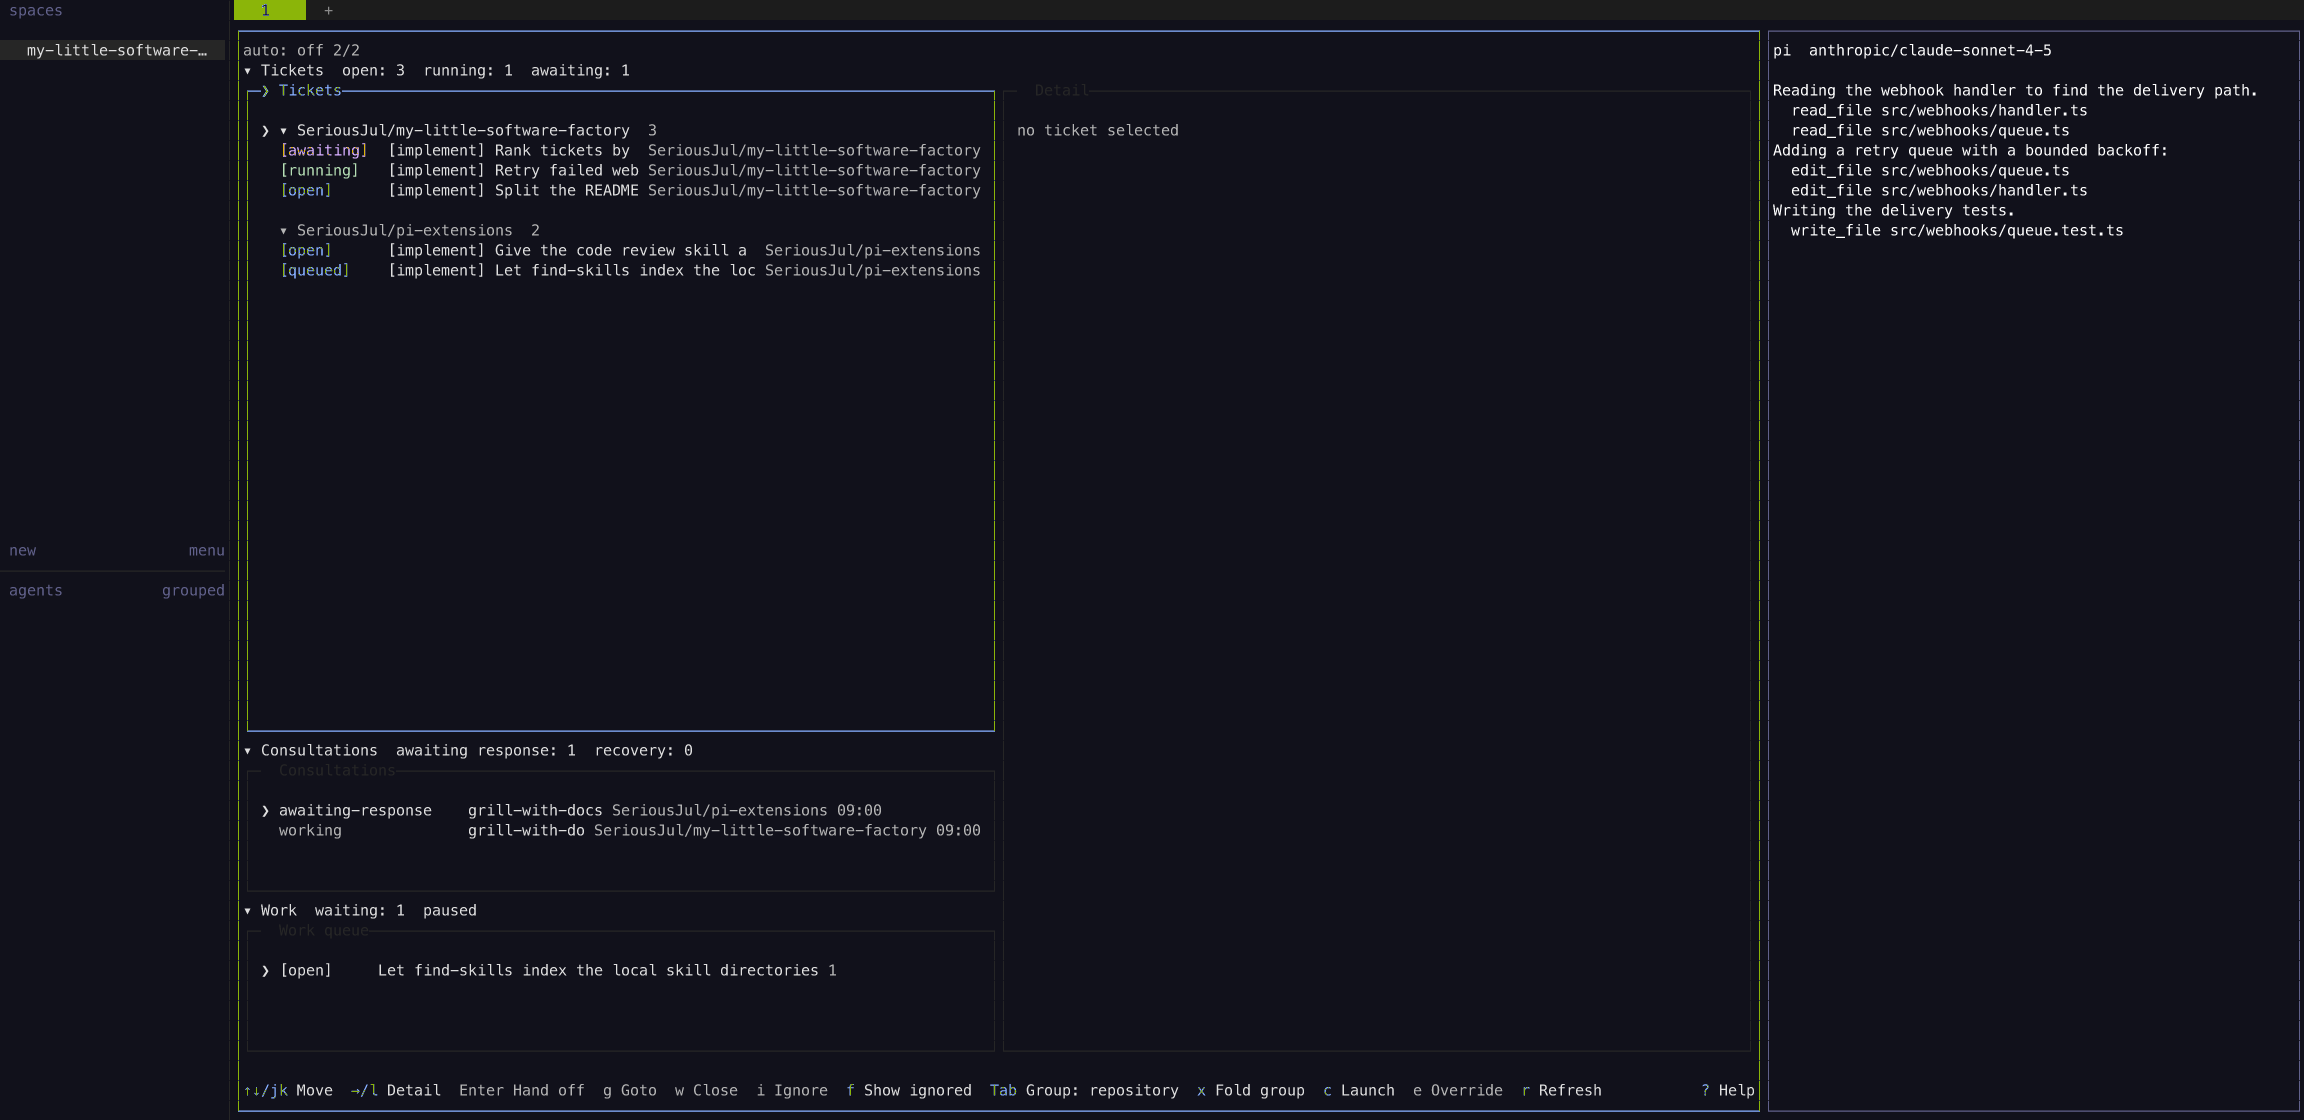
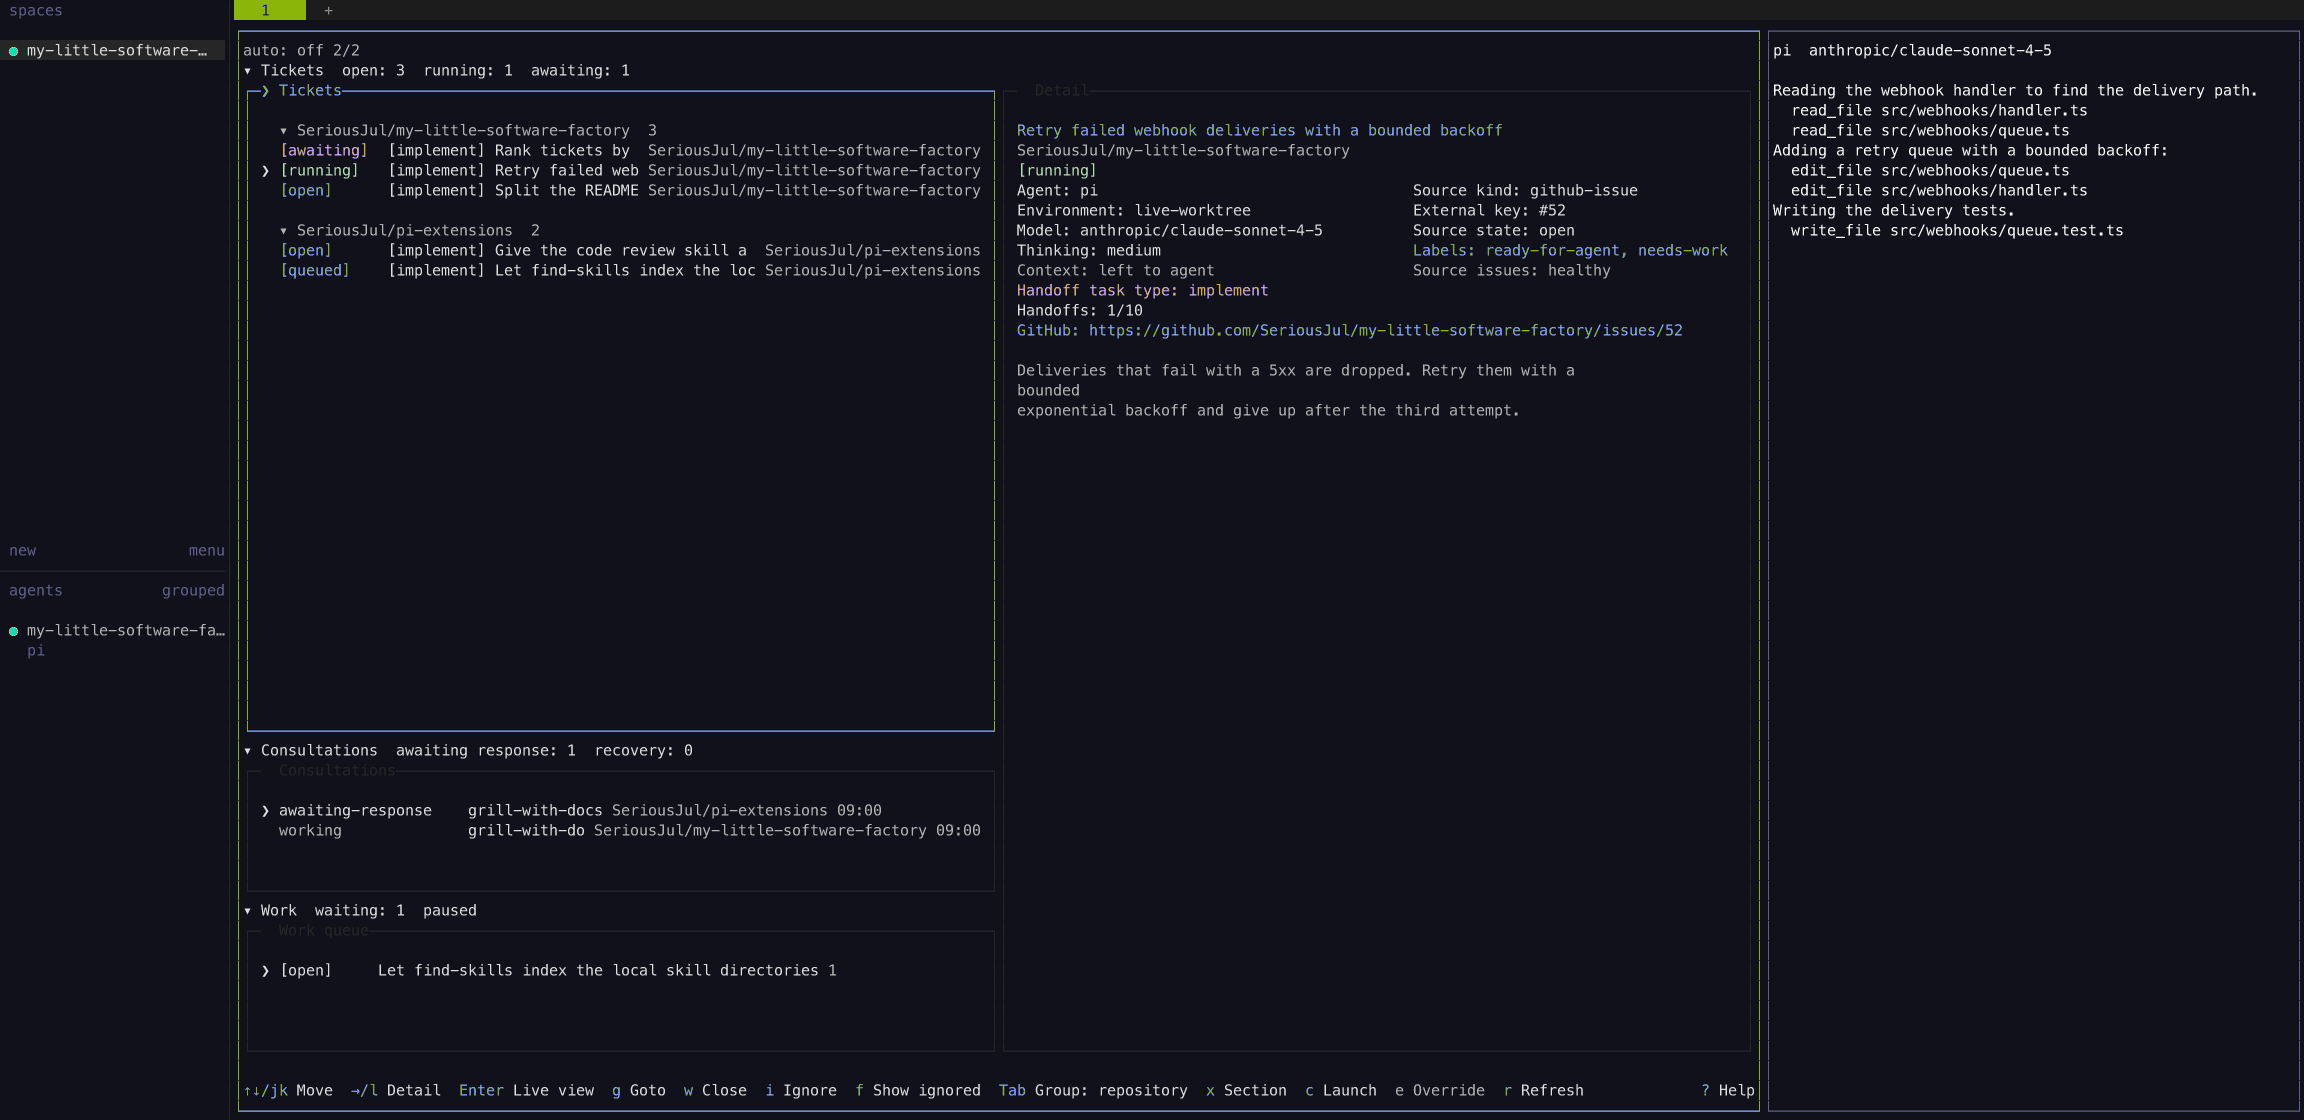
Fix the home page links and align the hero shot to the running ticket
The guide cards used absolute site paths, and VitePress leaves a raw
HTML href untouched, so the cards missed the project base and broke
on the Pages site. The cards now use targets relative to the page.

The hero selects the running ticket, so the Detail pane shows the
ticket the agent pane works, and it reports the agent pane to herdr
as a working agent, so the sidebar carries the running state.

diff --git a/scripts/generate-herdr-hero.ts b/scripts/generate-herdr-hero.ts
@@ -11,6 +11,10 @@
  * herdr client renders the workspace. The client's screen renders with
  * the same ANSI renderer as the doc screenshots.
  *
+ * The shot selects the running ticket, so the Detail pane shows the ticket
+ * the agent pane works, and it reports the agent pane to herdr as a working
+ * agent, so herdr's sidebar carries the running state the ticket's row reads.
+ *
  * This shot is refreshed by hand (`npm run hero`). It is not in the
  * drift test: herdr's chrome belongs to herdr, and it changes when
  * herdr changes.
@@ -188,6 +192,47 @@ async function main(): Promise<void> {
 			}
 			await sleep(250);
 		}
+		// Select the running ticket: the Detail pane shows the ticket the
+		// agent pane works, so the two panes read as one scene. The cursor
+		// starts on the first row, so step with `j` until the Detail shows
+		// the ticket's full title. The list column truncates titles, and the
+		// Detail holds the title whole, so the full title is the settle signal
+		// (the same reason the header wait above settles on the grid, not the
+		// byte stream). Keys go through the CLI to the pane directly: client
+		// keystrokes land on whichever pane holds the focus.
+		const detailTitle = "Retry failed webhook deliveries";
+		const hasDetailTitle = (grid: Grid): boolean =>
+			grid.some((row) =>
+				row
+					.map((c) => c.char)
+					.join("")
+					.includes(detailTitle),
+			);
+		const detailDeadline = Date.now() + 30000;
+		for (;;) {
+			if (hasDetailTitle(parseScreen(client.output(), SCREEN.cols, SCREEN.rows))) break;
+			if (Date.now() >= detailDeadline) {
+				throw new Error(
+					`hero: the Detail pane never showed the running ticket\ncaptured output:\n${preview(client.output())}`,
+				);
+			}
+			cli(bin, isoEnv, ["pane", "send-keys", paneA, "j"]);
+			await sleep(250);
+		}
+		// The agent pane runs a static script, so herdr's own detection names
+		// no agent in it. Report the pane's state so the sidebar shows the
+		// agent working, matching the ticket's running row.
+		cli(bin, isoEnv, [
+			"pane",
+			"report-agent",
+			paneB,
+			"--source",
+			"custom:hero",
+			"--agent",
+			"pi",
+			"--state",
+			"working",
+		]);
 		// The client redraws its chrome on a timer, so the byte stream never
 		// rests. Settle on the parsed screen grid instead: capture, re-capture
 		// once the grid stops changing, and render that.

diff --git a/docs/verification/documentation-site.md b/docs/verification/documentation-site.md
@@ -6,9 +6,12 @@ explicit page order, the Development group, the compact ADR group, the larger
 screenshots, the theme, and the image lightbox). The GitHub Pages deploy has
 run: the site is live at
 <https://seriousjul.github.io/my-little-software-factory/>, and the static
-structure of the published home page was checked on 2026-09-29. What has not
-been measured is the interactive lightbox flow, for the reason the section
-below states.
+structure of the published home page was checked on 2026-09-29. The home
+page's guide cards stood on absolute site paths that missed the project base
+on the Pages site, and the links broke there; the cards now use relative
+targets, and the built links were checked on 2026-09-29. What has not been
+measured is the interactive lightbox flow, for the reason the section below
+states.
 
 This record states what was measured, on what, and what was not measured. A
 check that could not run is recorded as incomplete. It is not a pass, and it
@@ -32,6 +35,7 @@ branch, on 2026-09-15.
 | The screenshots are the larger sizes: the six operation shots are 1620 by 800 and the hero is 2304 by 1120 | The PNG header dimensions of the built assets | Passed |
 | The pages inside a group show in explicit reading order; Getting Started is prerequisites, first launch, minimal config, with no landing row | The built HTML sidebar of a doc page, read in document order | Passed |
 | The home page "Get started" action and the Getting started card link to the first step (prerequisites), not to a landing page | The built home page HTML | Passed |
+| Every home page link resolves under the project base on the Pages site: the two hero actions and the six guide cards | The built home page HTML, read on 2026-09-29: the hero actions carry the project base, the guide cards carry relative targets, and each target names a page the build publishes | Passed |
 | The image lightbox code and styles are bundled into the site build | The built theme chunk contains the lightbox bindings (the `.vp-doc img` selector, the Escape and close handling, the overlay) and the built CSS contains the overlay styles | Passed |
 | A broken internal link fails the build with a readable error naming the page and the link, for a link in the same folder and for a link into a parent folder | A temporary guide page was built with each shape: `[x](./does-not-exist.md)` fails with `Found dead link ./does-not-exist in file temp-guide/intro.md`, and `[x](../does-not-exist.md)` fails with `Found dead link ./../does-not-exist in file temp-guide/intro.md`; both builds exit nonzero | Passed |
 | A newly written guide folder appears in the sidebar without a config edit | A temporary guide folder was built: its pages appeared as a new sidebar group, and the build needed no config change | Passed |

diff --git a/docs/index.md b/docs/index.md
@@ -20,27 +20,27 @@ hero:
 ![The control plane running in a herdr workspace](/hero.png)
 
 <div class="guide-grid">
-  <a class="guide-card" href="/getting-started/prerequisites.html">
+  <a class="guide-card" href="./getting-started/prerequisites.html">
     <h3>Getting started</h3>
     <p>The prerequisites, the first launch, and the minimal config, from a blank machine to a working control plane.</p>
   </a>
-  <a class="guide-card" href="/operation/main-view.html">
+  <a class="guide-card" href="./operation/main-view.html">
     <h3>Operation</h3>
     <p>The Main view and its controls, the Consultation and the override panel, the decision and missing modals, and the Live view.</p>
   </a>
-  <a class="guide-card" href="/work-flow/handoffs.html">
+  <a class="guide-card" href="./work-flow/handoffs.html">
     <h3>Work flow</h3>
     <p>How a ticket becomes a running agent: the setting chains, model discovery, repository resolution, and what happens after a turn settles.</p>
   </a>
-  <a class="guide-card" href="/configuration/index.html">
+  <a class="guide-card" href="./configuration/index.html">
     <h3>Configuration</h3>
     <p>The complete config example with every key, the key reference, the notes, and the shipped defaults, in one page.</p>
   </a>
-  <a class="guide-card" href="/development/commands.html">
+  <a class="guide-card" href="./development/commands.html">
     <h3>Development</h3>
     <p>The repository's commands, mutation testing, the shared control standard, and the ticket labels the control plane reads.</p>
   </a>
-  <a class="guide-card" href="/adr/index.html">
+  <a class="guide-card" href="./adr/index.html">
     <h3>Architecture decisions</h3>
     <p>The ADRs record what the project decided and why, in name order. New decisions append to the end of the list.</p>
   </a>

diff --git a/docs/adr/0028-the-homepage-hero-is-a-real-herdr-capture.md b/docs/adr/0028-the-homepage-hero-is-a-real-herdr-capture.md
@@ -15,9 +15,13 @@ isolated herdr: a fresh server in a temporary directory with its own socket,
 home, and config. It never touches the operator's live herdr session. The
 script makes one workspace, splits it into two panes, and runs the control
 plane in the left pane over the same deterministic fixture the operation
-screenshots use. A stub agent session runs in the right pane. An attached
-herdr client renders the workspace, and the script captures the client's
-screen with the shared ANSI renderer into `docs/public/hero.png`.
+screenshots use. A stub agent session runs in the right pane. The script
+selects the running ticket in the control plane, so the Detail pane shows the
+ticket the agent pane works, and it reports the agent pane to herdr as a
+working agent, so herdr's sidebar carries the running state the ticket's row
+reads. An attached herdr client renders the workspace, and the script
+captures the client's screen with the shared ANSI renderer into
+`docs/public/hero.png`.
 
 The hero is refreshed by hand. It is not in the drift test.
 

diff --git a/docs/agents/site-content.md b/docs/agents/site-content.md
@@ -50,6 +50,12 @@ step.
   not into an excluded folder is a site path, so it must name a published
   page or the build fails; a file outside `docs/` is not a site path, so link
   to it with a relative path instead.
+- Raw HTML links on a page (the home page's guide cards are hand-written
+  `<a>` tags) use a target relative to the page, like
+  `./operation/main-view.html`, not a site path with a leading `/`.
+  VitePress applies the project base to markdown links, but it leaves an
+  `href` written in raw HTML untouched, so an absolute target misses the
+  project base and the link breaks on the Pages site.
 - Do not write pages into `agents/`, `verification/`, or `research/` expecting
   them to appear on the site.
 - Static site assets (images and other files served as-is by site path) go in
